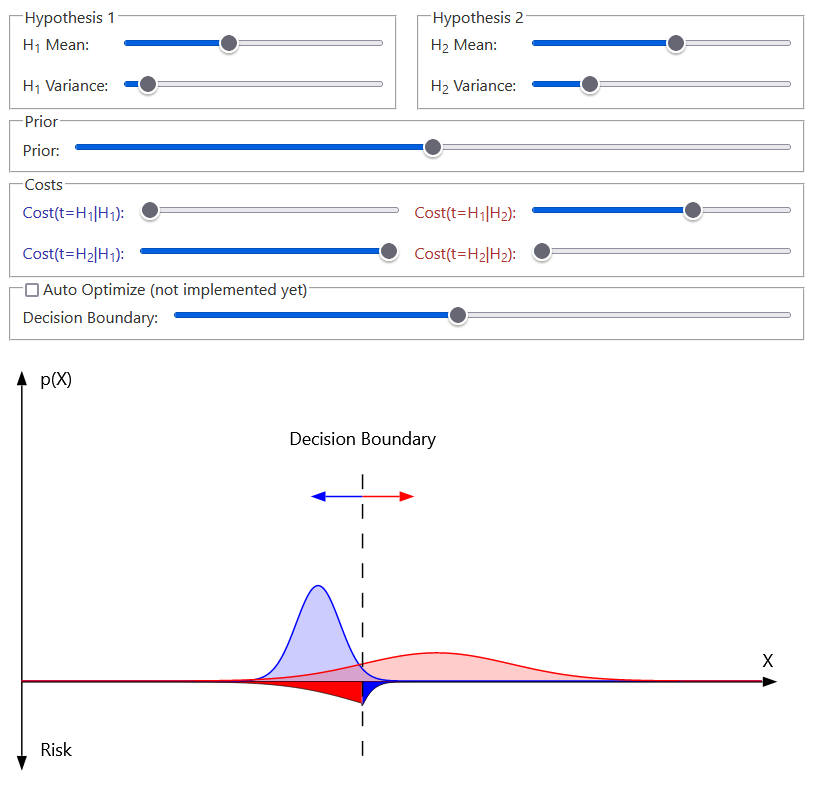
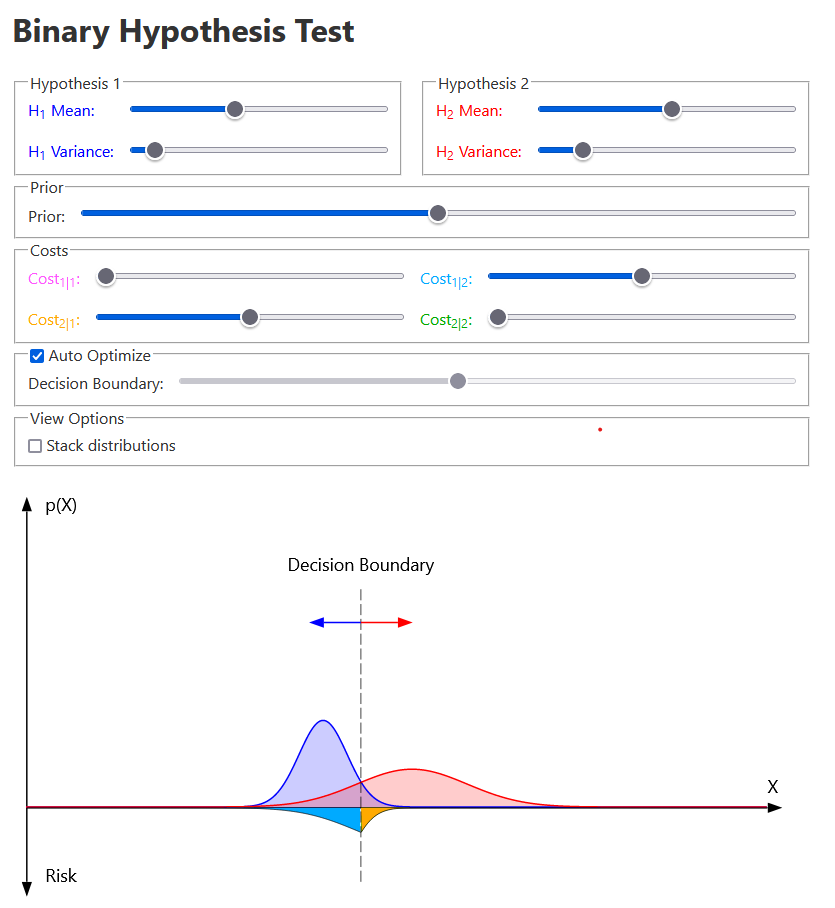
improve colors

diff --git a/src/App.svelte b/src/App.svelte
@@ -5,11 +5,15 @@
 	let prior = 0.5
 	let boundary = 0
 	let autoOptimize = false
+	let stacked = false
 	
 	let maxCost = 2
 	let cost = [0,1,1,0]
 	
 	let colors = ['blue', 'red']
+	let costColors = ['#f5f', '#fa0','#0af','#0a0']
+
+	$: swapped = mean[0] > mean[1] ? 1 : 0
 
 
 	$: pdf = (p, x) => {
@@ -114,7 +118,7 @@
 	<legend>
 		Hypothesis 1
 	</legend>
-<dl>
+<dl style={`color: ${colors[0]}`}>
 	<dt><label for='mean_0'>H<sub>1</sub> Mean</label></dt>
 	<dd><input id="mean_0" type="range" bind:value={mean[0]} min="-1" max="1" step="0.01" /></dd>
 	<dt><label for='variance_0'>H<sub>1</sub> Variance</label></dt>
@@ -126,7 +130,7 @@
 	<legend>
 		Hypothesis 2
 	</legend>
-	<dl>
+	<dl style={`color: ${colors[1]}`}>
 	<dt><label for='mean_1'>H<sub>2</sub> Mean</label></dt>
 	<dd><input id="mean_1" type="range" bind:value={mean[1]} min="-1" max="1" step="0.01" /></dd>
 	<dt><label for='variance_1'>H<sub>2</sub> Variance</label></dt>
@@ -151,16 +155,16 @@
 	</legend>
 		<div class="controls">
 			<dl>
-	<dt><label for='cost_0' style="color: #33a">Cost(t=H<sub>1</sub>|H<sub>1</sub>)</label>0</dt>
+	<dt><label for='cost_0' style={`color: ${costColors[0]}`}>Cost<sub>1|1</sub></label></dt>
 	<dd><input id="cost_0" type="range" bind:value={cost[0]} min="0" max={maxCost} step="0.01" /></dd>
-	<dt><label for='cost_1' style="color: #33a">Cost(t=H<sub>2</sub>|H<sub>1</sub>)</label>1</dt>
+	<dt><label for='cost_1' style={`color: ${costColors[1]}`}>Cost<sub>2|1</sub></label></dt>
 	<dd><input id="cost_1" type="range" bind:value={cost[1]} min="0" max={maxCost} step="0.01" /></dd>
 	</dl>
 		<dl>
 
-	<dt><label for='cost_2'style="color: #a33">Cost(t=H<sub>1</sub>|H<sub>2</sub>)</label>2</dt>
+	<dt><label for='cost_2'style={`color:${costColors[2]}`}>Cost<sub>1|2</sub></label></dt>
 	<dd><input id="cost_2" type="range" bind:value={cost[2]} min="0" max={maxCost} step="0.01" /></dd>
-	<dt><label for='cost_3' style="color: #a33">Cost(t=H<sub>2</sub>|H<sub>2</sub>)</label>3</dt>
+	<dt><label for='cost_3' style={`color:${costColors[3]}`}>Cost<sub>2|2</sub></label></dt>
 	<dd><input id="cost_3" type="range" bind:value={cost[3]} min="0" max={maxCost} step="0.01" /></dd>
 </dl>
 		</div>
@@ -175,6 +179,12 @@
 		<dt><label for='boundary'>Decision Boundary</label></dt>
 		<dd><input id="boundary" bind:value={boundary} type="range"  min="-1" max="1" step="0.01" disabled={autoOptimize} /></dd>
 	</dl>
+</fieldset>
+
+<fieldset>
+	<legend>
+			<label>View Options</legend>
+	<label><input id="stacked" bind:checked={stacked} type="checkbox" /> Stack distributions</label>
 </fieldset>
 
 <svg viewBox="-20 -180 1080 700" stroke-width="2" font-size="24">
@@ -193,27 +203,39 @@
 	<text x={25} y={flipY(-100)} text-anchor="start">Risk</text>
 	<text x={1000} y={flipY(20)} text-anchor="start">X</text>
 	
+
+	{#if stacked}
+
+	<path d={`M0,${flipY(0)} ` + samples[1].flatMap(([x,p],i) => ['L'+(500+500*x),flipY(2+(p+(stacked?samples[0][i][1]:0))*600)]).join(' ') + `V${flipY(0)} Z`} fill={colors[1]} opacity="1" />
+
+	<path d={`M0,${flipY(0)} ` + samples[0].flatMap(([x,p]) => ['L'+(500+500*x),flipY(2+p*600)]).join(' ') + `V${flipY(0)} Z`} fill={colors[0]} opacity="1" />
+	
+	{:else}
+
 	<path d={`M0,${flipY(0)} ` + samples[0].flatMap(([x,p]) => ['L'+(500+500*x),flipY(1+p*600)]).join(' ') + `V${flipY(0)} Z`} fill={colors[0]} opacity="0.2" />
-	<path d={`M0,${flipY(0)} ` + samples[1].flatMap(([x,p]) => ['L'+(500+500*x),flipY(1+p*600)]).join(' ') + `V${flipY(0)} Z`} fill={colors[1]} opacity="0.2" />
+
+	<path d={`M0,${flipY(0)} ` + samples[1].flatMap(([x,p],i) => ['L'+(500+500*x),flipY(1+p*600)]).join(' ') + `V${flipY(0)} Z`} fill={colors[1]} opacity="0.2" />
+
+
 		
 	<path d={`M0,${flipY(0)} ` + samples[0].flatMap(([x,p]) => ['L'+(500+500*x),flipY(1+p*600)]).join(' ')} stroke={colors[0]} fill="none" />
-	<path d={`M0,${flipY(0)} ` + samples[1].flatMap(([x,p]) => ['L'+(500+500*x),flipY(1+p*600)]).join(' ')} stroke={colors[1]} fill="none" />
+	<path d={`M0,${flipY(0)} ` + samples[1].flatMap(([x,p],i) => ['L'+(500+500*x),flipY(1+p*600)]).join(' ')} stroke={colors[1]} fill="none" />
+	{/if}
 		
+	<path d={`M0,${flipY(0)} ` + samples[0].flatMap(([x,p],i) =>  x>=boundary ? [] : ['L'+(500+500*x),flipY(-(costs[0][i]*samples[0][i][1] + costs[1][i]*samples[1][i][1])*600)]).join(' ') + `V${flipY(0)} Z`} fill={costColors[2+swapped]} />
 		
-	<path d={`M0,${flipY(0)} ` + samples[0].flatMap(([x,p],i) =>  x>=boundary ? [] : ['L'+(500+500*x),flipY(-(costs[0][i]*samples[0][i][1] + costs[1][i]*samples[1][i][1])*600)]).join(' ') + `V${flipY(0)} Z`} fill={colors[1]} />
-		
-	<path d={`M0,${flipY(0)} ` + samples[0].flatMap(([x,p],i) => x>=boundary ? [] : ['L'+(500+500*x),flipY(-(costs[0][i]*samples[0][i][1])*600)]).join(' ') + `V${flipY(0)} Z`} fill={colors[0]} />
+	<path d={`M0,${flipY(0)} ` + samples[0].flatMap(([x,p],i) => x>=boundary ? [] : ['L'+(500+500*x),flipY(-(costs[0][i]*samples[0][i][1])*600)]).join(' ') + `V${flipY(0)} Z`} fill={costColors[0+swapped]} />
 	
 		
-	<path d={`M${boundary*500 + 500},${flipY(0)} ` + samples[0].flatMap(([x,p],i) =>  x<boundary ? [] : ['L'+(500+500*x),flipY(-(costs[0][i]*samples[0][i][1] + costs[1][i]*samples[1][i][1])*600)]).join(' ') + `V${flipY(0)} Z`} fill={colors[1]}  />
+	<path d={`M${boundary*500 + 500},${flipY(0)} ` + samples[0].flatMap(([x,p],i) =>  x<boundary ? [] : ['L'+(500+500*x),flipY(-(costs[0][i]*samples[0][i][1] + costs[1][i]*samples[1][i][1])*600)]).join(' ') + `V${flipY(0)} Z`} fill={costColors[3-swapped]}  />
 		
-	<path d={`M${boundary*500 + 500},${flipY(0)} ` + samples[0].flatMap(([x,p],i) => x<boundary ? [] : [('L'+(500+500*x)),flipY(-(costs[0][i]*samples[0][i][1])*600)]).join(' ') + `V${flipY(0)} Z`} fill={colors[0]}  />
+	<path d={`M${boundary*500 + 500},${flipY(0)} ` + samples[0].flatMap(([x,p],i) => x<boundary ? [] : [('L'+(500+500*x)),flipY(-(costs[0][i]*samples[0][i][1])*600)]).join(' ') + `V${flipY(0)} Z`} fill={costColors[1-swapped]}  />
 	
 		<path d={`M0,${flipY(0)} ` + samples[0].flatMap(([x,p],i) => [((x>boundary && i-1 && samples[0][i-1][0] < boundary) ? 'V' : 'L'+(500+500*x)),flipY(-(costs[0][i]*samples[0][i][1] + costs[1][i]*samples[1][i][1])*600)]).join(' ') + `V${flipY(0)}`} fill="none" stroke="black" stroke-width="1"  />
 		
 		
 		
-		<line x1={500+boundary*500} x2={500+boundary*500} y1={flipY(-100)} y2={flipY(300)} stroke="black" stroke-dasharray="20 20" />
+		<line x1={500+boundary*500} x2={500+boundary*500} y1={flipY(-100)} y2={flipY(300)} stroke="black" stroke-width="1" stroke-dasharray="15 5" />
 	<text x={500+boundary*500} y={flipY(320)}   text-anchor="middle">Decision Boundary</text>
 		
 		<line x1={500+boundary*500} x2={500+boundary*500 - 50} y1={flipY(250)} y2={flipY(250)} stroke={mean[0] < mean[1] ? colors[0] : colors[1]}/>
@@ -223,6 +245,7 @@
 		<polygon transform={`translate(${500+boundary*500-50} ${flipY(250)})`} fill={mean[0] < mean[1] ? colors[0] : colors[1]} points="0 -7, -20 0, 0 7" />
 		</g>
 </svg>
+
 <h2>
 	Explanation
 </h2>
